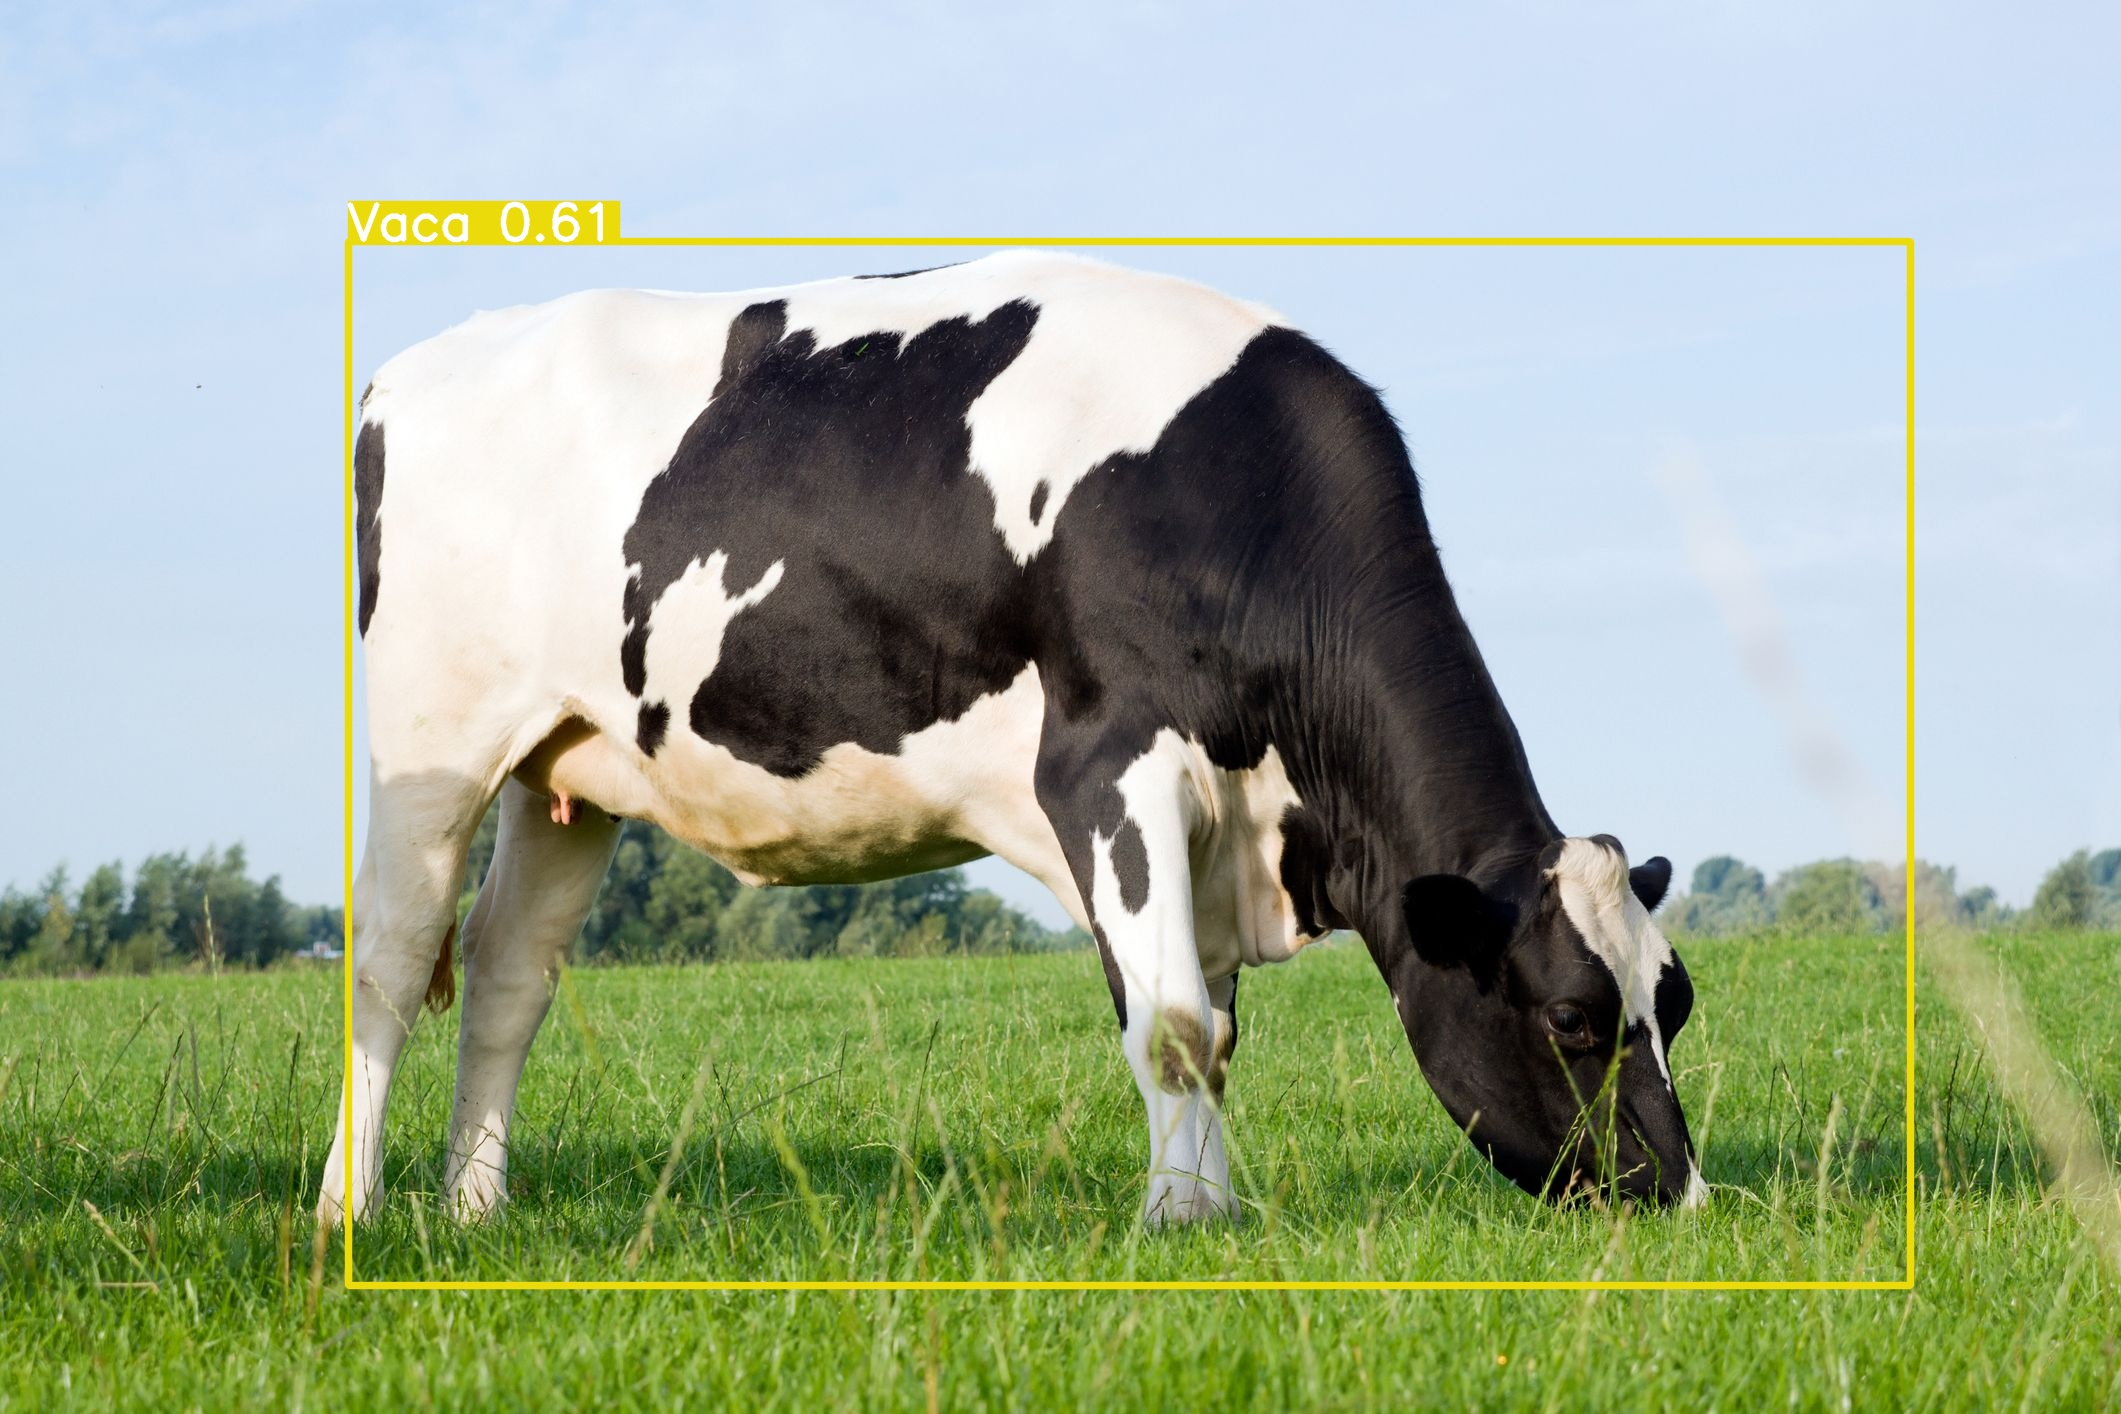
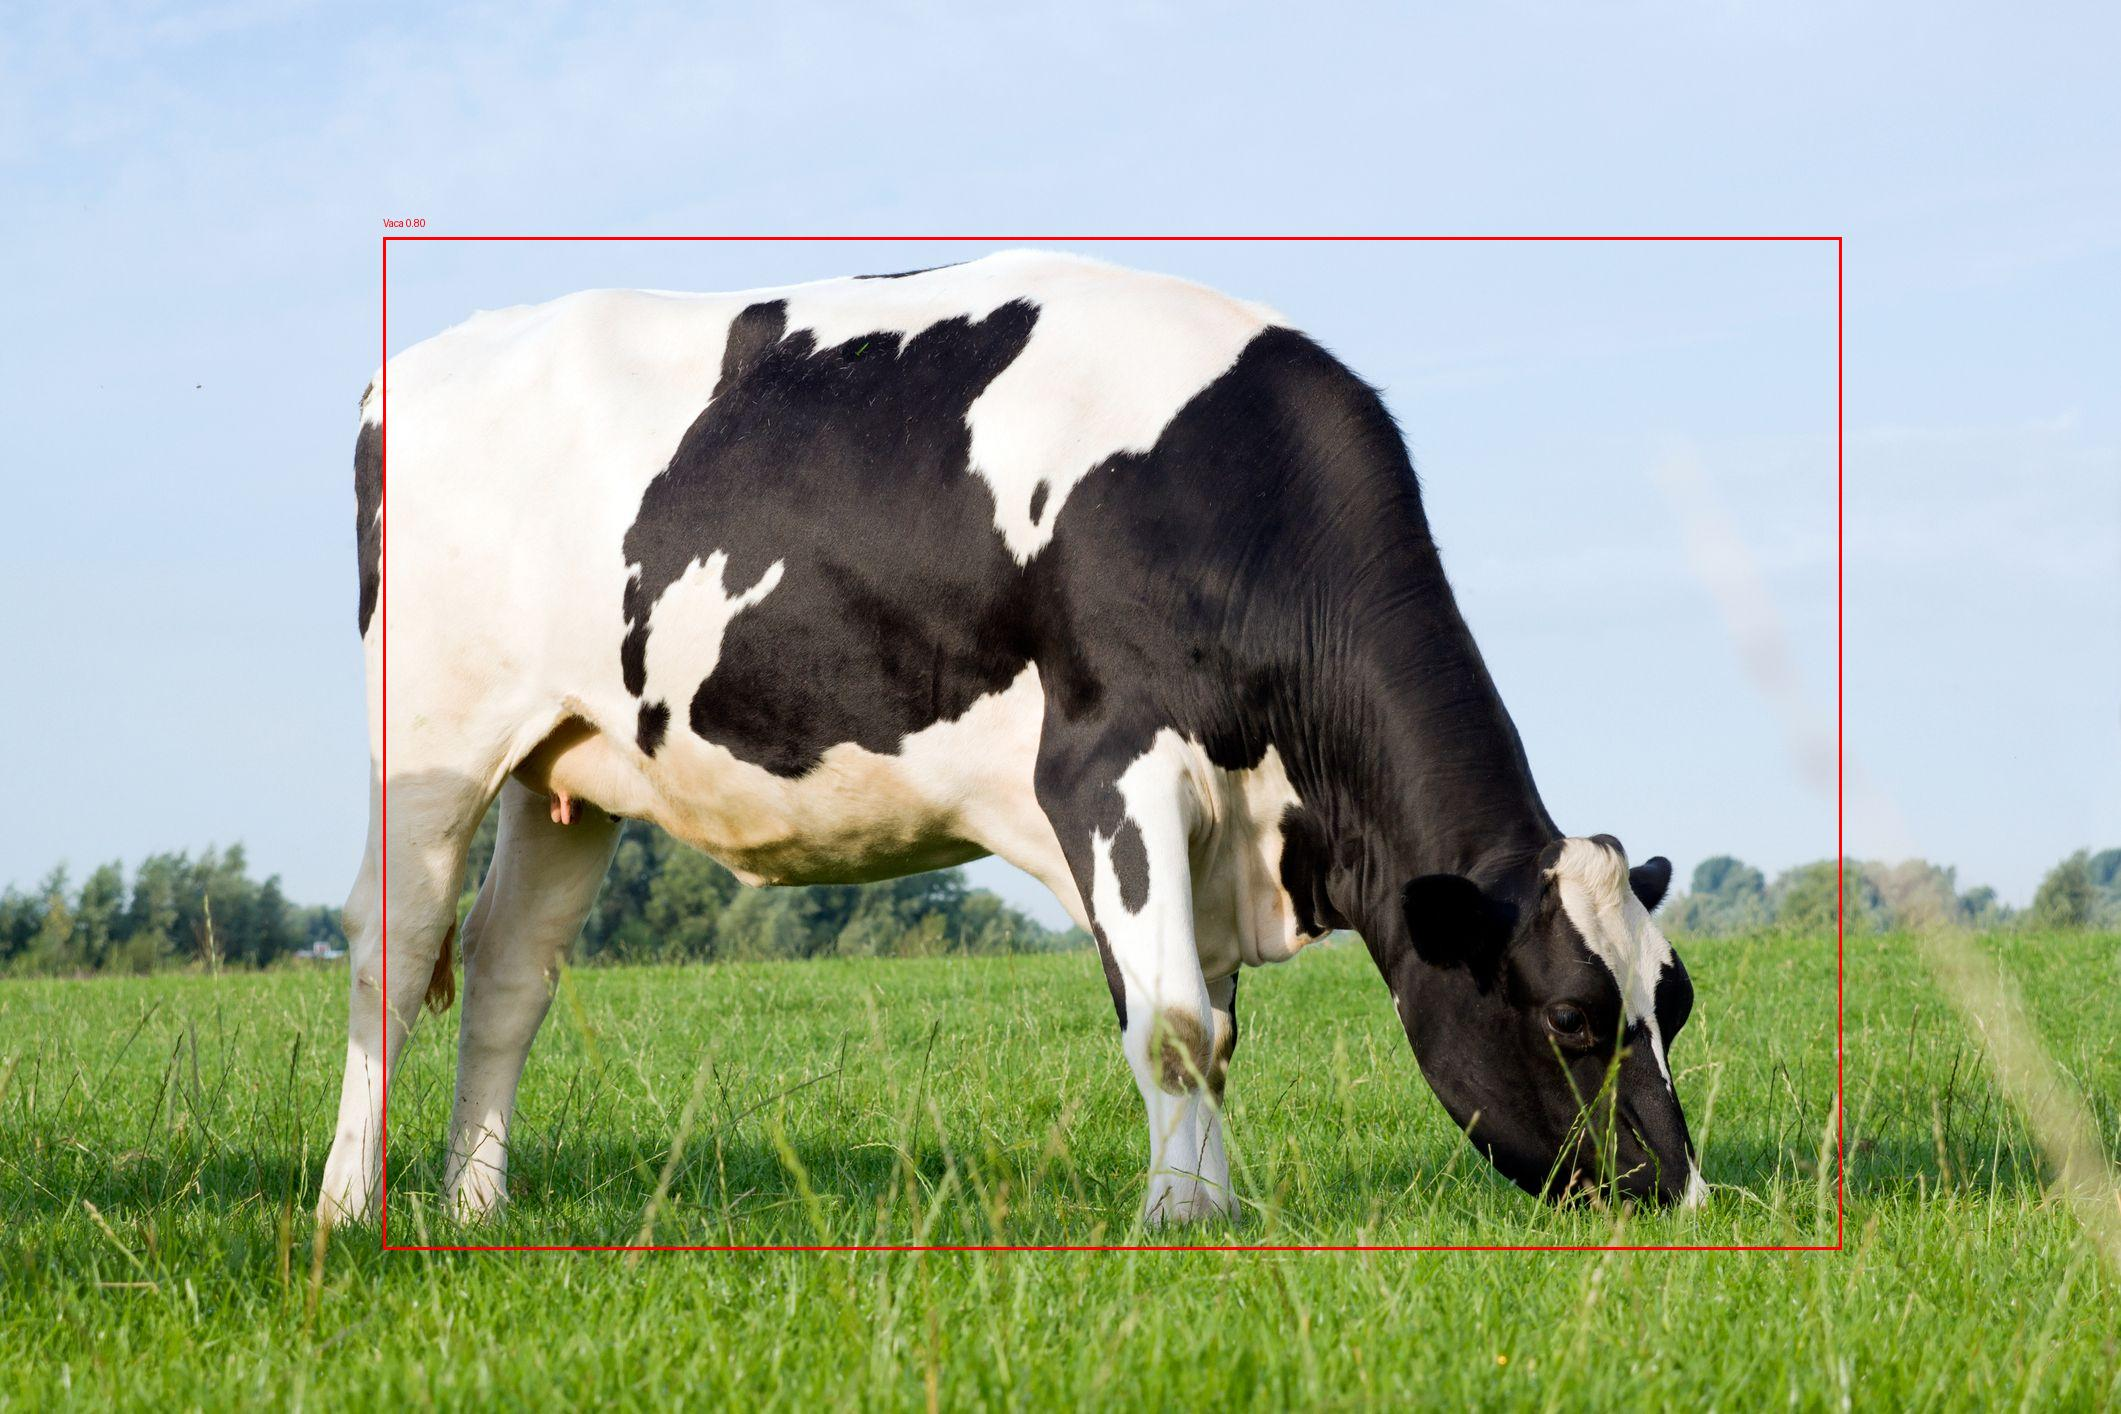
fase6 sns

Changed region(s): [[0.1556, 0.1245, 0.9024, 0.9335]]

diff --git a/fase6/run_detection.py b/fase6/run_detection.py
@@ -1,8 +1,18 @@
 import cv2
-import torch
 import numpy as np
 import os
+import yolov5
 from alert_service import AlertService
+import pathlib
+import sys
+
+# --- Pathlib Workarounds for Cross-Platform Model Loading ---
+# Fix for 'WindowsPath' not found on Linux
+pathlib.WindowsPath = pathlib.PosixPath
+
+# Fix for 'pathlib._local' not found (older python/pathlib versions)
+if 'pathlib._local' not in sys.modules:
+    sys.modules['pathlib._local'] = pathlib
 
 # --- AWS Configuration ---
 # O ARN do tópico SNS para o qual os alertas serão enviados.
@@ -25,25 +35,19 @@ def process_detection_results(results, filename, alert_service):
     e envia alertas se animais doentes forem detectados.
     """
     labels = results.pandas().xyxy[0]['name'].tolist()
-    sick_animals = [label for label in labels if "doente" in label.lower()]
+    # sick_animals = [label for label in labels if "doente" in label.lower()]
 
-    if sick_animals:
-        print(f"Atenção: Animais doentes detectados na imagem {filename}: {', '.join(sick_animals)}")
+    # if sick_animals:
+        # print(f"Atenção: Animais doentes detectados na imagem {filename}: {', '.join(sick_animals)}")
         
         # Prepara a mensagem de alerta
-        animal_id = filename.split('.')[0]
-        status = "Doente"
-        action = "Veterinário acionado para avaliação e tratamento."
-        message = f"Alerta de Saúde Animal:\n\n" \
-                  f"Animal ID (imagem): {animal_id}\n" \
-                  f"Status Detectado: {status} ({', '.join(sick_animals)})\n" \
-                  f"Ação Sugerida: {action}"
-        subject = f"Alerta de Saúde Animal: {animal_id}"
+    message = f"Envio de alerta:\n\n" 
+    subject = f"Alerta de Animal: "
 
-        # Envia o alerta
-        alert_service.send_alert(SNS_TOPIC_ARN, message, subject)
-    else:
-        print(f"Nenhum animal doente detectado na imagem {filename}.")
+    # Envia o alerta
+    alert_service.send_alert(SNS_TOPIC_ARN, message, subject)
+    # else:
+    #     print(f"Nenhum animal doente detectado na imagem {filename}.")
 
 
 def main():
@@ -56,44 +60,55 @@ def main():
     # Inicializa o serviço de alerta
     alert_service = AlertService(region_name='us-east-1')
 
-    # Define o dispositivo: usa a GPU (cuda) se estiver disponível, senão a CPU
-    device = torch.device('cuda' if torch.cuda.is_available() else 'cpu')
-    print(f"Usando o dispositivo: {device}")
-    
-    if not torch.cuda.is_available():
-        print("AVISO: CUDA não está disponível. Rodando na CPU.")
-
     print("Carregando modelo YOLOv5...")
-    # Carrega o modelo do hub do PyTorch, usando o repositório oficial do YOLOv5.
-    model = torch.hub.load('ultralytics/yolov5', 'custom', path=MODEL_PATH, trust_repo=True)
-    model.to(device)
+    # Carrega o modelo
+    model = yolov5.load(MODEL_PATH)
 
     print(f"Processando imagens da pasta: {INPUT_FOLDER}")
     # Lista todos os arquivos na pasta de entrada
     for filename in os.listdir(INPUT_FOLDER):
-        if filename.lower().endswith(('.png', '.jpg', '.jpeg', '.gif', '.bmp')):
+        if filename.lower().endswith((".png", ".jpg", ".jpeg", ".gif", ".bmp")):
             image_path = os.path.join(INPUT_FOLDER, filename)
             print(f"Carregando a imagem de: {image_path}")
-            frame = cv2.imread(image_path)
-
-            if frame is None:
-                print(f"Erro ao carregar a imagem. Verifique o caminho: {image_path}")
-                continue
-
+            
             print(f"Iniciando a detecção na imagem: {filename}...")
             # Executa a inferência no frame
-            results = model(frame)
+            results = model(image_path)
 
             # Processa os resultados da detecção e envia alertas se necessário
             process_detection_results(results, filename, alert_service)
 
-            # Renderiza os resultados no frame
-            rendered_frame = np.squeeze(results.render())
-
-            # Salva a imagem com as detecções na pasta de saída
-            output_image_path = os.path.join(OUTPUT_FOLDER, f"detected_{filename}")
-            cv2.imwrite(output_image_path, rendered_frame)
-            print(f"Detecção concluída. Resultado salvo em: {output_image_path}")
+            # Draw detections manually using PIL to avoid OpenCV readonly array issues
+            # Load the original image
+            from PIL import Image, ImageDraw, ImageFont
+            img = Image.open(image_path)
+            draw = ImageDraw.Draw(img)
+            
+            # Get detection results as pandas dataframe
+            detections = results.pandas().xyxy[0]
+            
+            # Draw each detection
+            for _, detection in detections.iterrows():
+                # Get bounding box coordinates
+                x1, y1, x2, y2 = int(detection['xmin']), int(detection['ymin']), int(detection['xmax']), int(detection['ymax'])
+                conf = detection['confidence']
+                cls = detection['name']
+                
+                # Draw rectangle (box)
+                draw.rectangle([x1, y1, x2, y2], outline="red", width=3)
+                
+                # Draw label
+                label = f"{cls} {conf:.2f}"          
+                try:
+                    font = ImageFont.truetype("/usr/share/fonts/truetype/dejavu/DejaVuSans.ttf", 16)
+                except:
+                    font = ImageFont.load_default()
+                draw.text((x1, y1 - 20), label, fill="red", font=font)
+            
+            # Save the image with detections
+            final_output = os.path.join(OUTPUT_FOLDER, f"detected_{filename}")
+            img.save(final_output)
+            print(f"Detecção concluída. Resultado salvo em: {final_output}")
 
     print("Processamento de todas as imagens concluído.")
 
